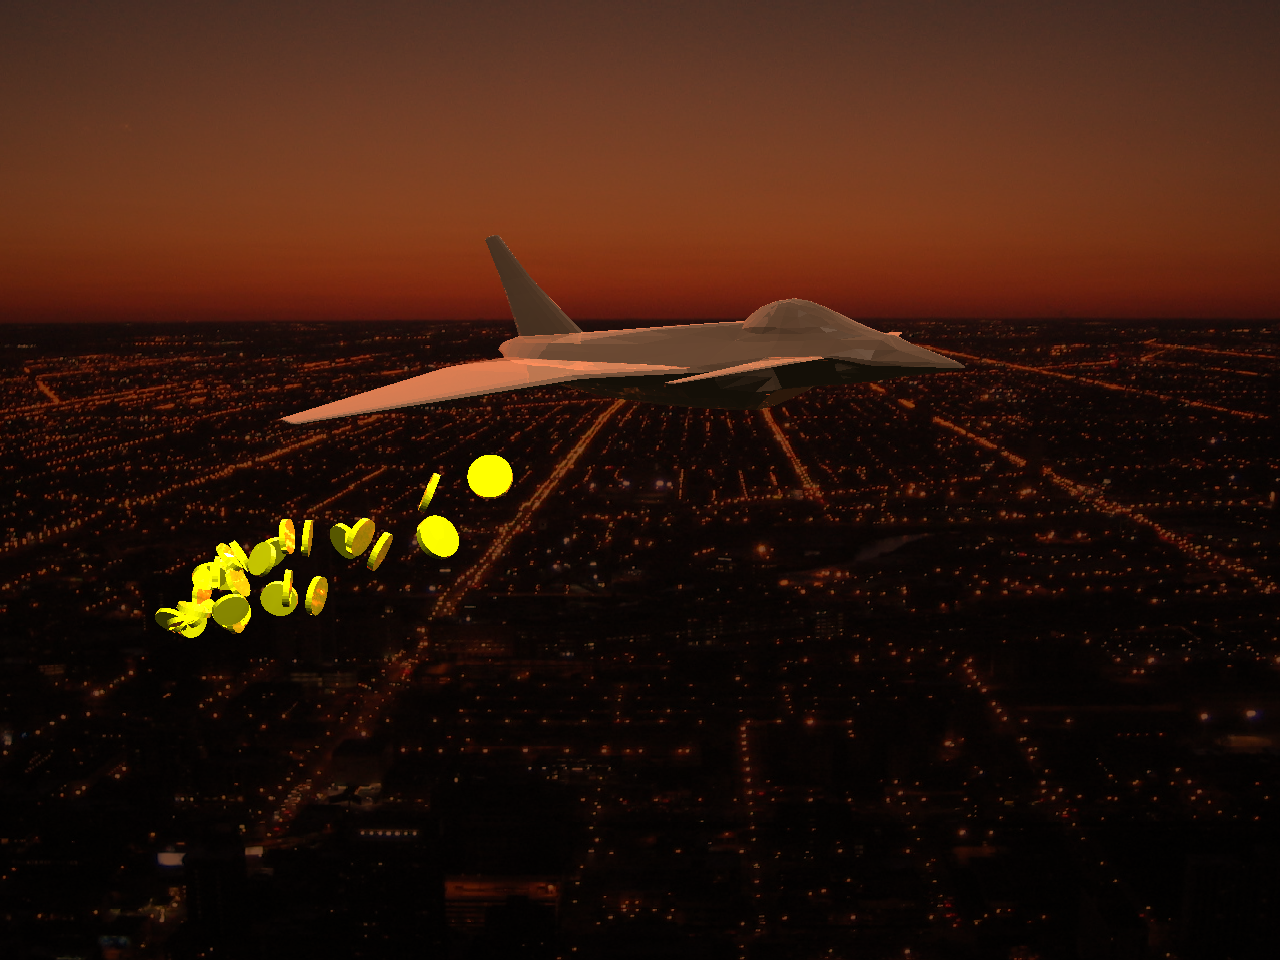
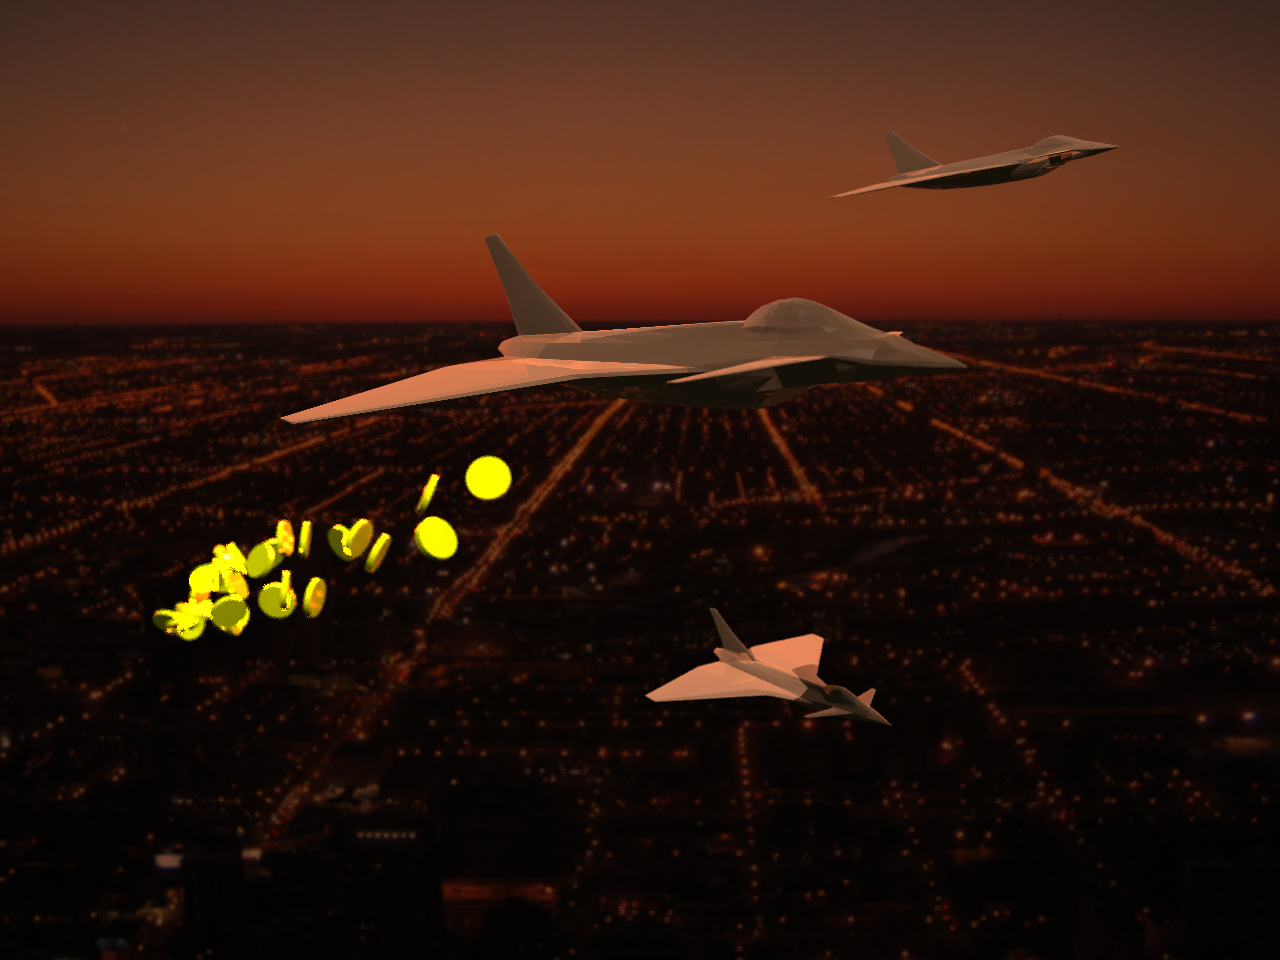
More planes

diff --git a/raytracer/Src/ExampleScene.cpp b/raytracer/Src/ExampleScene.cpp
@@ -50,38 +50,37 @@ void ExampleScene::initializeBitcoin()
       rtPopMatrix();
     }
   
+    // Plane closest to the camera
     rtPushMatrix();
       rtMaterial(mat_metal);
       rtTranslate(10.4f,5.f,15.f);
       rtScale(.1f,.1f,.1f);
-      rtRotate(.3f, 30.f, 10.f); // x, y, z rotations
+      rtRotate(.5f, 30.f, 10.f); // x, y, z rotations
       rtTriangleMesh("../Standard_Tests/custom/fighter.obj",true,false);
     rtPopMatrix();
   
-//	rtMaterial(mat_glass1);
-//	rtSphere(STPoint3(6.f,1.01f,5.f),1.f);
-//
-//	rtMaterial(mat_metal);
-//	rtCylinder(STPoint3(9.f,0.01f,5.f),STPoint3(9.f,3.01f,5.f),1.f);
-//	
-//	rtMaterial(mat_glass2);
-//	rtBox(STPoint3(12.f,2.01f,5.f),STVector3(2.f,4.f,.8f));
+    // Plane on the top right
+    rtPushMatrix();
+      rtMaterial(mat_metal);
+      rtTranslate(12.f,6.f,13.f);
+      rtScale(.05f,.05f,.05f);
+      rtRotate(.5f, 31.f, 10.f); // x, y, z rotations
+      rtTriangleMesh("../Standard_Tests/custom/fighter.obj",true,false);
+    rtPopMatrix();
+  
+    // Plane on the bottom right
+    rtPushMatrix();
+      rtMaterial(mat_metal);
+      rtTranslate(11.f,3.2f,13.f);
+      rtScale(.05f,.05f,.05f);
+      rtRotate(.5f, 30.f, 10.f); // x, y, z rotations
+      rtTriangleMesh("../Standard_Tests/custom/fighter.obj",true,false);
+    rtPopMatrix();
 
 	////environment box
 	Material mat_ground(STColor3f(1.f,1.f,1.f),STColor3f(.4f,.2f,.1f),STColor3f(),STColor3f(),0.f);
 	Material mat_wall(STColor3f(0.f,5.f,23.f),STColor3f(.4f,.2f,.1f),STColor3f(),STColor3f(),30.f);
 	rtMaterial(mat_ground);
-  
-  // GROUND
-//  rtLoadTexture("../Standard_Tests/custom/cityscape.jpg"); // Open texture and set it to id = 0
-//  rtBindTexture(0);
-//  STPoint3 min_corner = STPoint3(0.f,0.f,0.f);
-//  STVector2 size = STVector2(10.f,10.f);
-//  
-//  rtTriangle(min_corner,STPoint3(min_corner.x+size.x,min_corner.y,min_corner.z+size.y),STPoint3(min_corner.x+size.x,min_corner.y,min_corner.z), STPoint2(0.f, 0.f), STPoint2(1.f, 0.f), STPoint2(1.f, 1.f));
-//  rtTriangle(min_corner,STPoint3(min_corner.x,min_corner.y,min_corner.z+size.y),STPoint3(min_corner.x+size.x,min_corner.y,min_corner.z+size.y), STPoint2(0.f, 0.f), STPoint2(1.f, 1.f), STPoint2(0.f, 1.f));
-//  
-//  rtUnbindTexture();
 
   // Back wall
   rtLoadTexture("../Standard_Tests/custom/cityscape.jpg"); // Open texture and set it to id = 1
